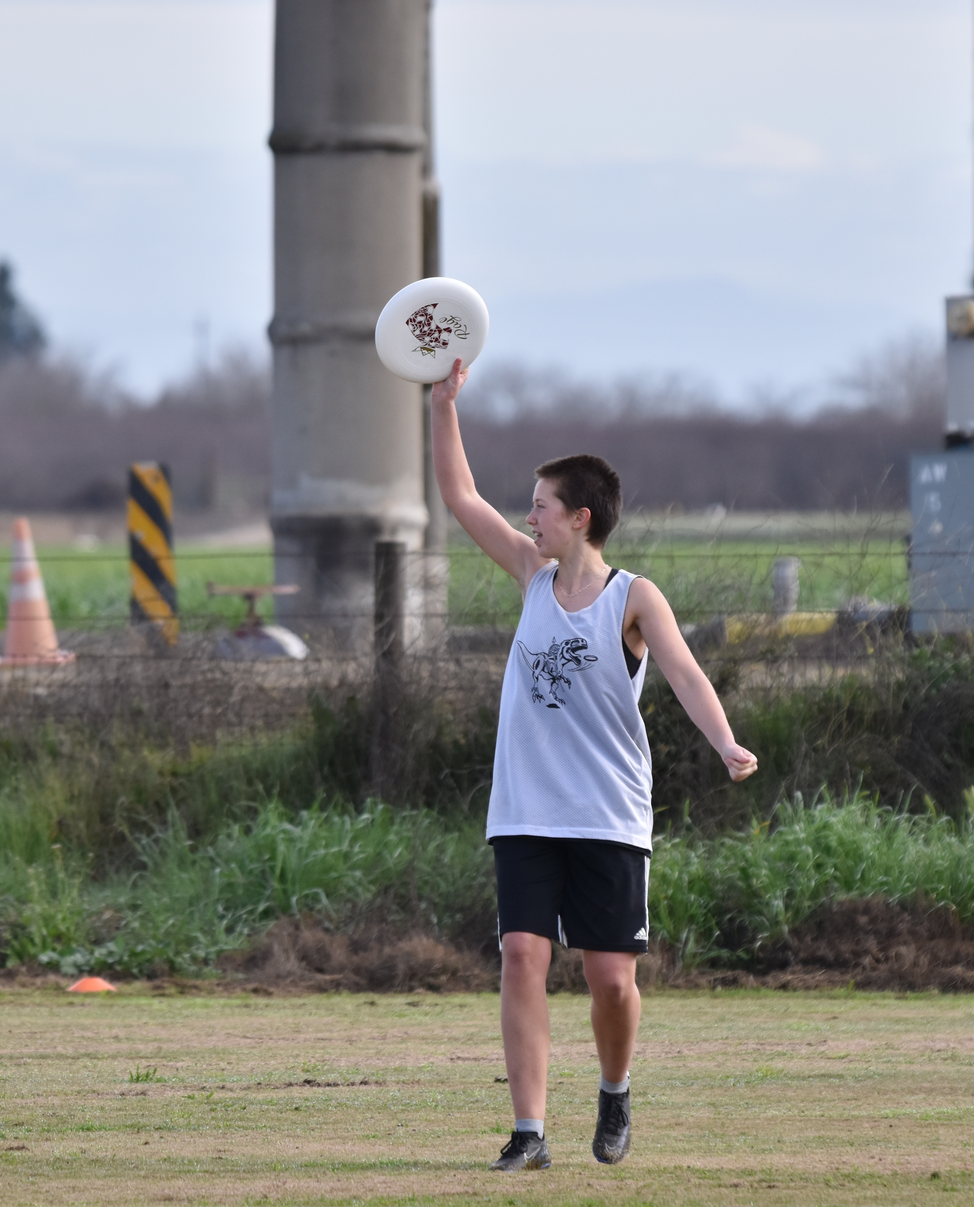
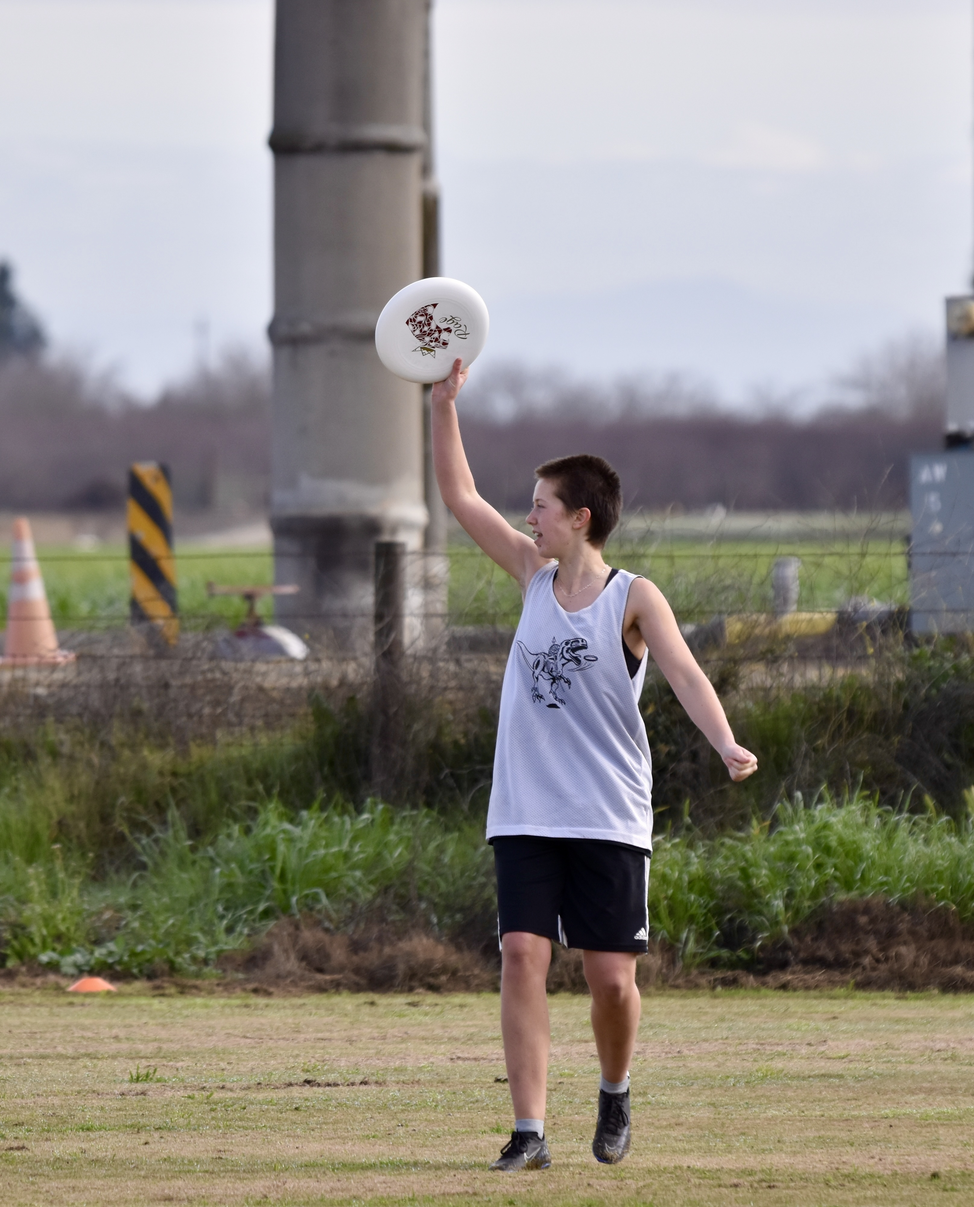
pics

diff --git a/Photos.html b/Photos.html
@@ -192,6 +192,12 @@
                     alt="_______"
                 />
 
+                <img
+                    src="images/photos/8.JPG"
+                    class="w-100 shadow-1-strong rounded mb-4"
+                    alt="_______"
+                />
+
                 
                 
 
